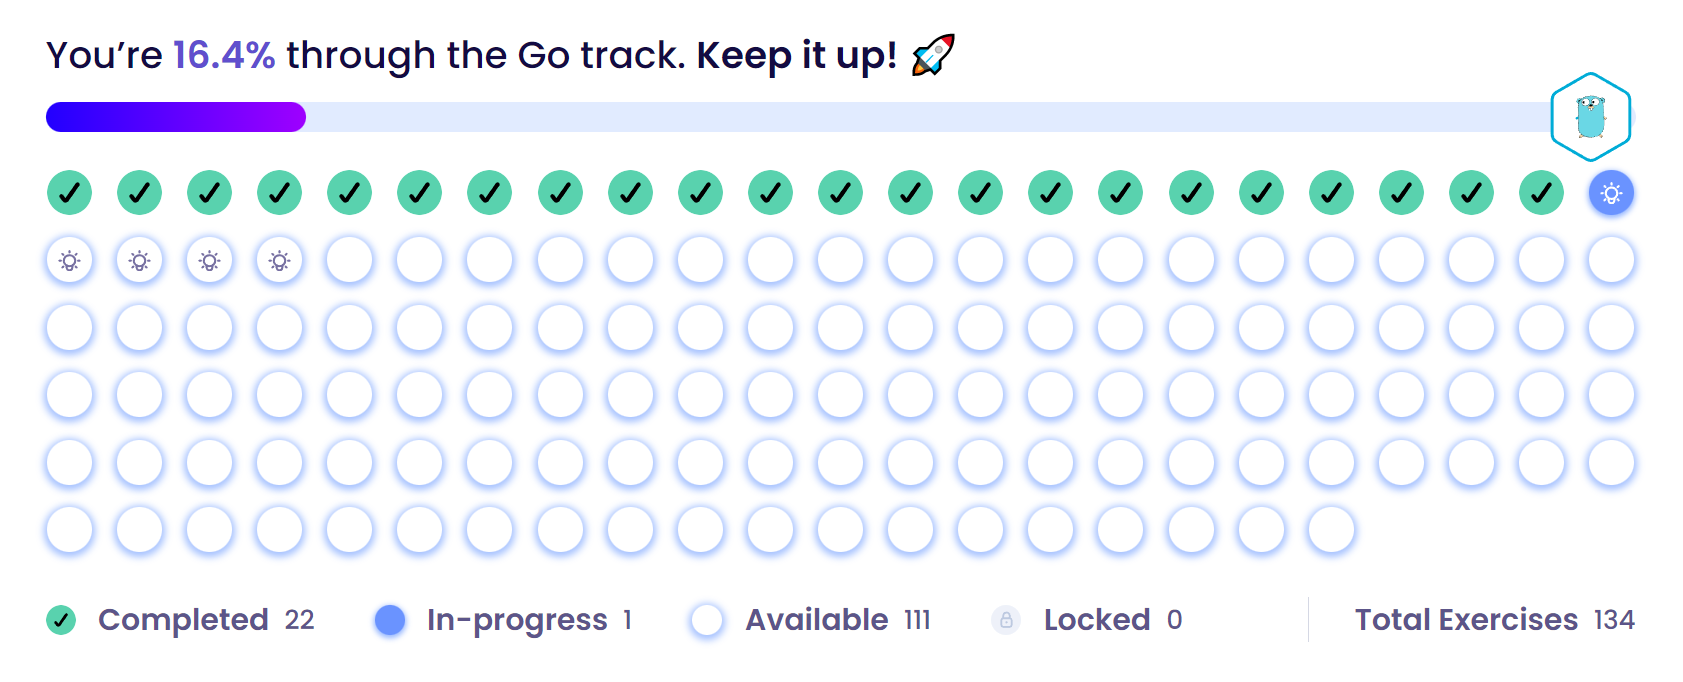
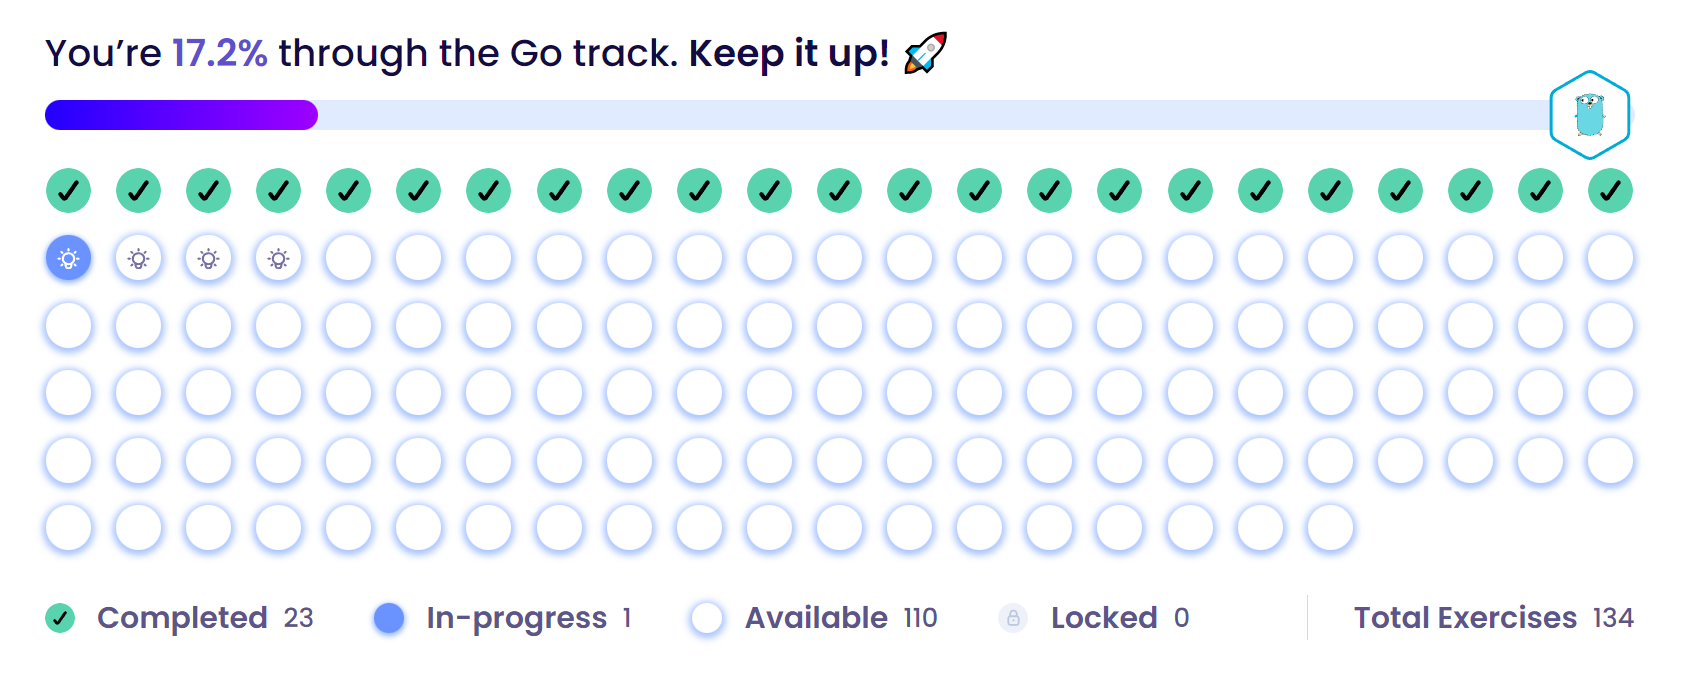
Add 23.InterestIsInteresting
go path updated

diff --git a/23_InterestIsInteresting/main.go b/23_InterestIsInteresting/main.go
@@ -1,0 +1,34 @@
+package main
+
+// Task 1
+func InterestRate(balance float64) float32 {
+	if balance < 0 {
+		return 3.213
+	} else if balance >= 0 && balance < 1000 {
+		return 0.5
+	} else if balance >= 1000 && balance < 5000 {
+		return 1.621
+	} else {
+		return 2.475
+	}
+}
+
+// Task 2
+func Interest(balance float64) float64 {
+	return balance * float64(InterestRate(balance)) / 100
+}
+
+// Task 3
+func AnnualBalanceUpdate(balance float64) float64 {
+	return Interest(balance) + balance
+}
+
+// Task 4
+func YearsBeforeDesiredBalance(balance, targetBalance float64) int {
+	var counter int = 0
+	for balance < targetBalance {
+		balance = AnnualBalanceUpdate(balance)
+		counter++
+	}
+	return counter
+}

diff --git a/23_InterestIsInteresting/README.md b/23_InterestIsInteresting/README.md
@@ -1,0 +1,96 @@
+# Excercise 23.Interest is interesting
+
+# Instructions
+In this exercise you'll be working with savings accounts. Each year, the balance of your savings account is updated based on its interest rate. The interest rate your bank gives you depends on the amount of money in your account (its balance):
+
+- 3.213% for a balance less than `0` dollars (balance gets more negative).
+- 0.5% for a balance greater than or equal to `0` dollars, and less than `1000` dollars.
+- 1.621% for a balance greater than or equal to `1000` dollars, and less than `5000` dollars.
+- 2.475% for a balance greater than or equal to `5000` dollars.
+You have four tasks, each of which will deal your balance and its interest rate.
+
+# Tasks
+1. Calculate the interest rate
+Implement the `InterestRate()` function to calculate the interest rate based on the specified balance:
+```
+InterestRate(200.75)
+// => 0.5
+```
+2. Calculate the interest
+Implement the `Interest()` function to calculate the interest based on the specified balance:
+```
+Interest(200.75)
+// => 1.003750
+```
+3. Calculate the annual balance update
+Implement the `AnnualBalanceUpdate()` function to calculate the annual balance update, taking into account the interest rate:
+```
+AnnualBalanceUpdate(200.75)
+// => 201.75375
+```
+Note that the value returned is a `float64`.
+4. Calculate the years before reaching the desired balance
+Implement the `YearsBeforeDesiredBalance()` function to calculate the minimum number of years required to reach the desired balance, taking into account that each year, interest is added to the balance. This means that the balance after one year is: start balance + interest for start balance. The balance after the second year is: balance after one year + interest for balance after one year. And so on, until the current year's balance is greater than or equal to the target balance.
+```
+balance := 200.75
+targetBalance := 214.88
+YearsBeforeDesiredBalance(balance, targetBalance)
+// => 14
+```
+
+# Solution
+```
+// Task 1
+func InterestRate(balance float64) float32 {
+	if balance < 0 {
+        return 3.213
+    } else if balance >= 0 && balance  < 1000 {
+    	return 0.5
+    } else if balance >= 1000 && balance < 5000 {
+    	return 1.621
+    } else {
+    	return 2.475
+    }
+}
+
+// Task 2
+func Interest(balance float64) float64 {
+	return balance * float64(InterestRate(balance)) / 100
+}
+
+// Task 3
+func AnnualBalanceUpdate(balance float64) float64 {
+	return Interest(balance) + balance
+}
+
+// Task 4
+func YearsBeforeDesiredBalance(balance, targetBalance float64) int {
+    var counter int = 0
+	for balance < targetBalance {
+        balance = AnnualBalanceUpdate(balance)
+        counter++
+    }
+	return counter
+}
+
+```
+
+# Introduction
+A floating-point number is a number with zero or more digits behind the decimal separator. Examples are `-2.4`, `0.1`, `3.14`, `16.984025` and `1024.0`.
+
+Different floating-point types can store different numbers of digits after the digit separator - this is referred to as its precision.
+
+Go has two floating-point types:
+
+- `float32`: 32 bits (~6-9 digits precision).
+- `float64`: 64 bits (~15-17 digits precision). This is the default floating-point type.
+
+As can be seen, both types can store a different number of digits. This means that trying to store PI in a `float32` will only store the first 6 to 9 digits (with the last digit being rounded).
+
+By default, Go will use `float64` for floating-point numbers, unless the floating-point number is:
+1. assigned to a variable with type `float32`, or
+2. returned from a function with return type `float32`, or
+3. passed as an argument to the `float32()` function.
+
+The `math` package contains many helpful mathematical functions.
+
